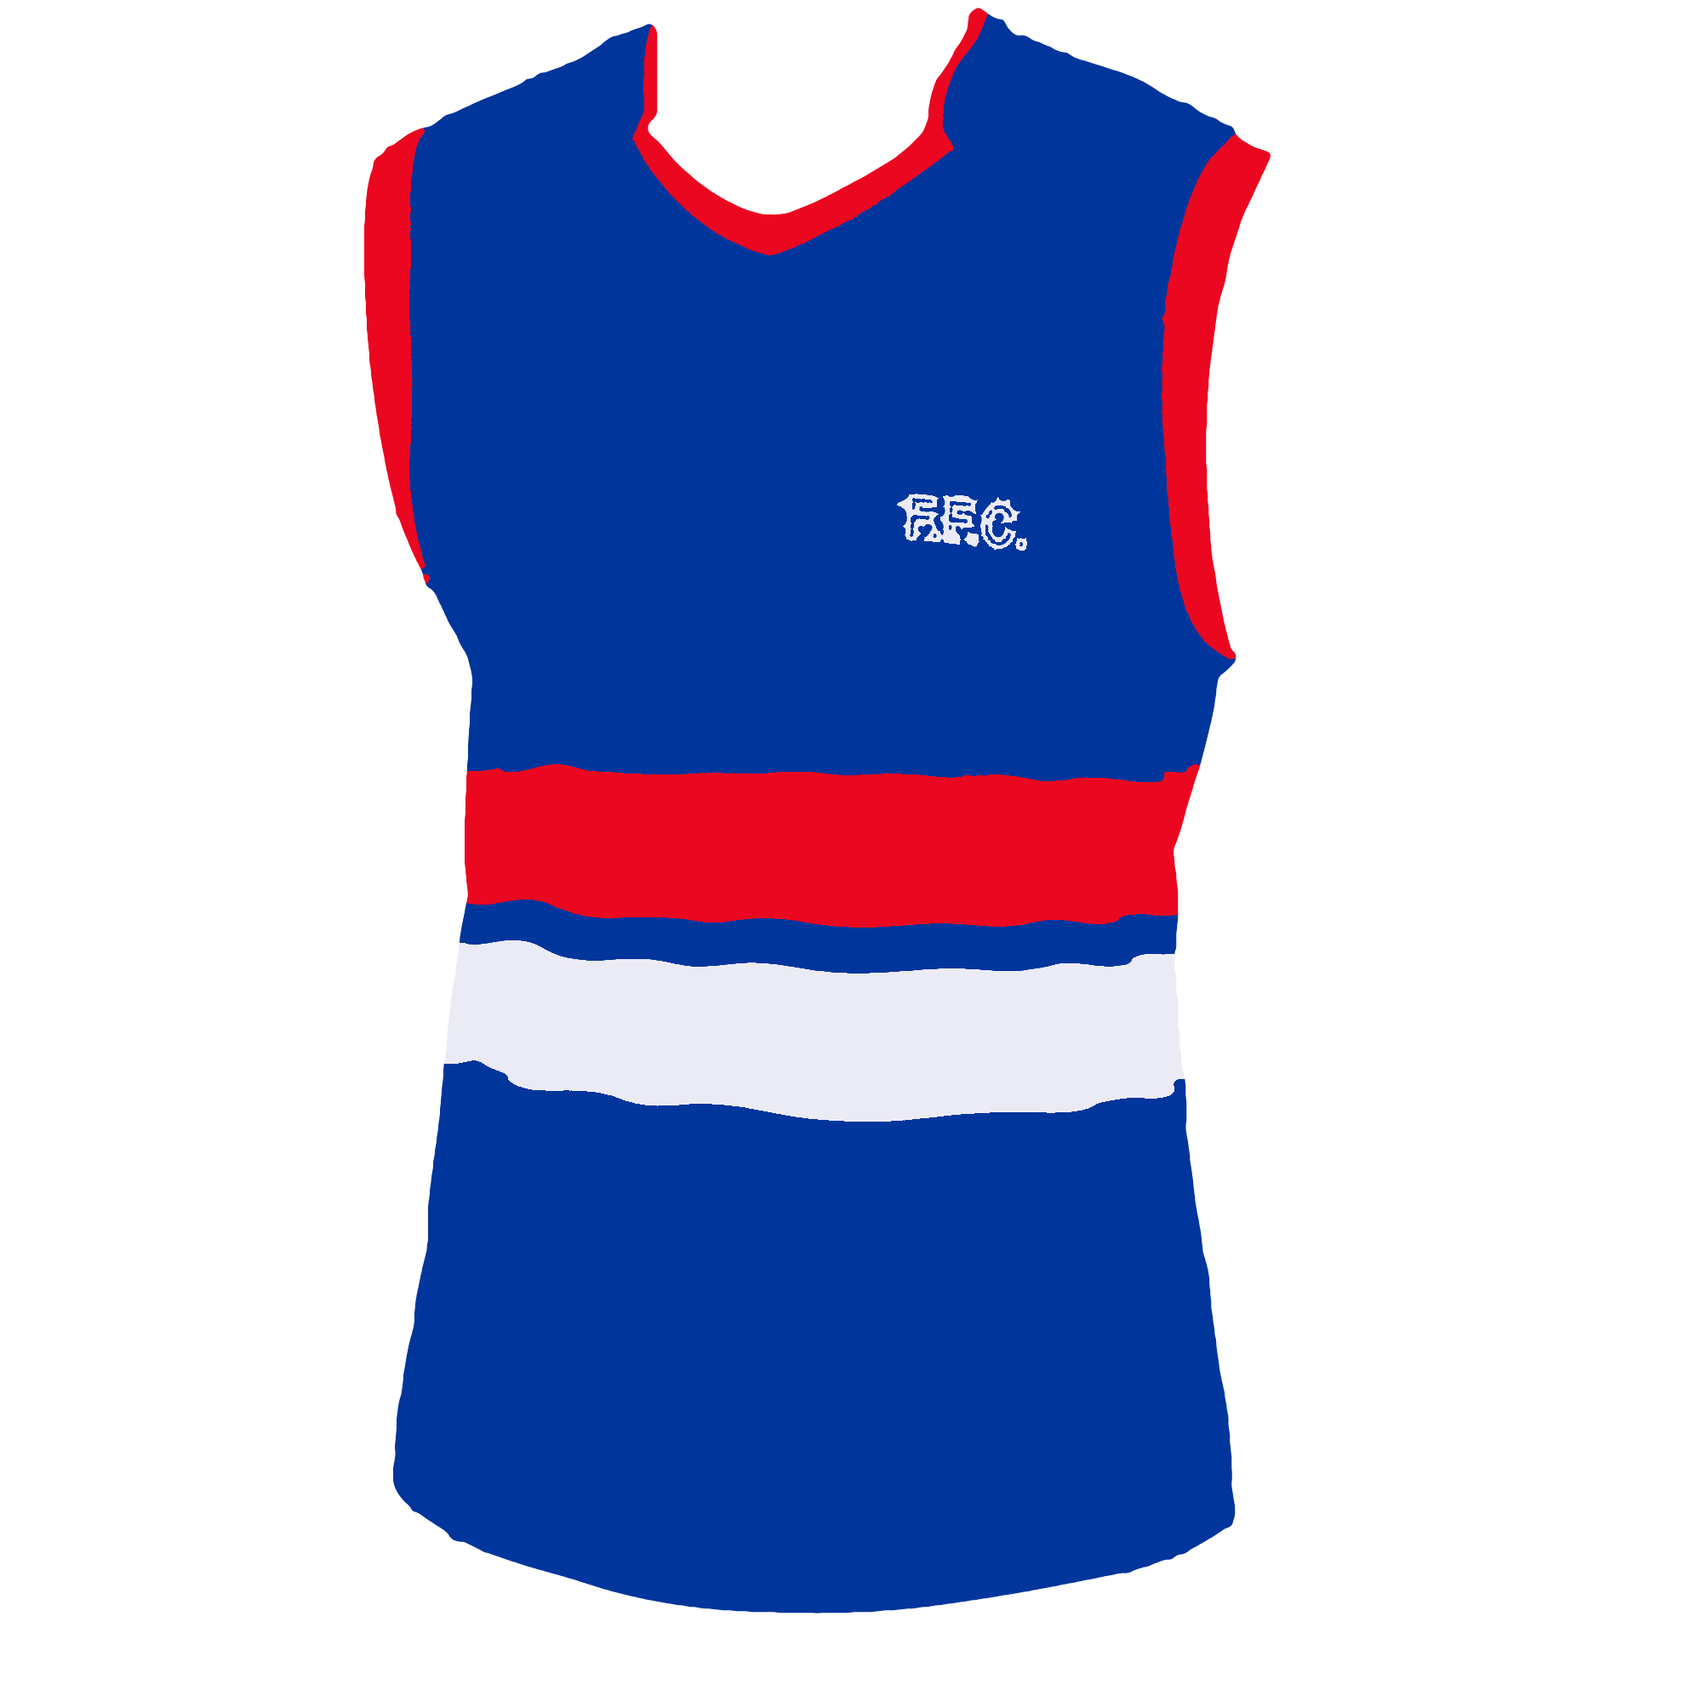
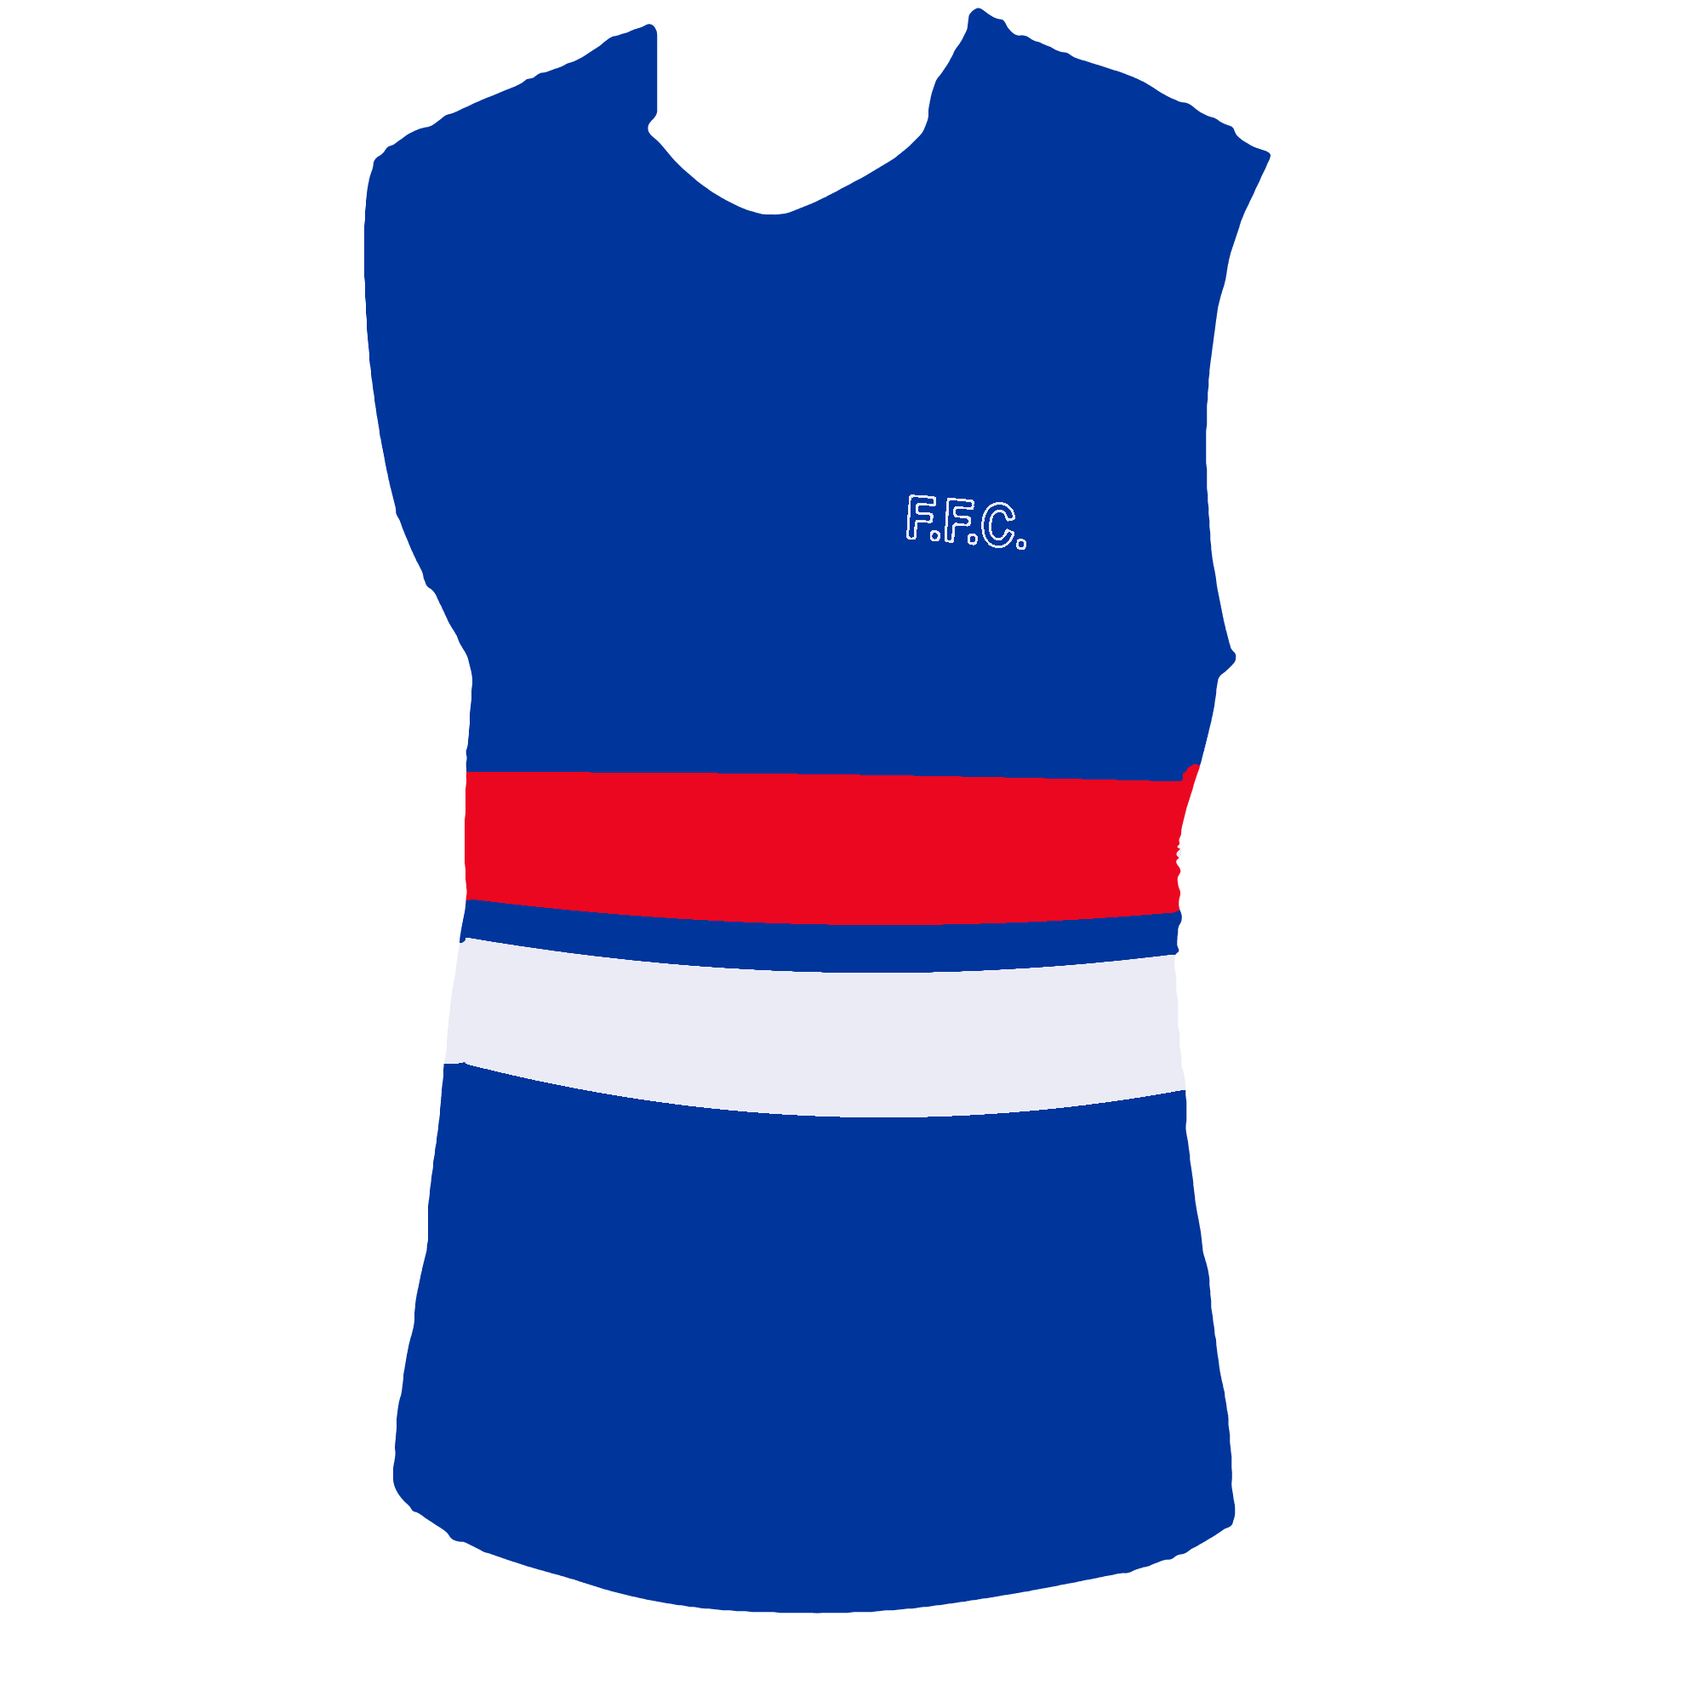
Guernseys SYD done, WBD designs and fixes (WBD cut held back)
Sydney: csv trims blanked (the design carries the binding). Western Bulldogs: hoops
redrawn as fitted bands, back from the director's straight-on photo
(wbd_back_norm.py), F.F.C. letters redrawn (wbd_design_fix.py). The WBD cut is not
committed: its neck loop sits 6 cm higher than every other club's and the collar
binding draws red patches over the back; that waits on the director.

diff --git a/tools/kits/guernsey3d/club_fixes/wbd_ref.py b/tools/kits/guernsey3d/club_fixes/wbd_ref.py
@@ -1,66 +1,79 @@
-# wbd_ref.py: Western Bulldogs. Photos: the AFL Store ghost-mannequin front and back (dl_wbd/s_0.jpg, s_1.jpg),
-# one camera (same top and hem rows), normalised with FIT=1 norm2.py WBD 405 405 samecam.
-# On both photos the mannequin is turned a touch, so through the right armhole you see the garment's pale inside
-# lining and, past it, the other panel's red binding. Neither is this panel's cloth: right of this panel's binding
-# goes to background. The edge: the lining's first pixel (r,g >150, b >200), read every 15 rows on the normalised
-# photo; above the lining it runs straight up to the panel's shoulder tip, below it down to the armpit; between the
-# points it is interpolated and smoothed (Gaussian, sigma 4 rows).
-# Front: the Mission sponsor sits on plain blue right above the club's F.F.C. letters, too close for trace.py's
-# padded box (its fill bridges up from the letters), so its area (x 958-1332, rows 330-577, ending 6 rows above
-# F.F.C.) is painted the body's blue (0,53,156, median of the plain blue at 900,1500) before the trace.
-# Back: the CoinSpot panel covers the hoops' middle (the end of the red hoop, the blue gap and most of the white).
-# Both outer edges stay visible on every column: the red hoop's top above the panel and the white hoop's bottom below
-# it. Each is read per column (x 560-1440) and fitted with a straight line (the back is turned a touch, so they slope
-# about 30 px across). Where the red ends and the white starts, as a share of that height, is read just outside the
-# panel on each side (x 596 and 1334) and interpolated across it (left 0.44/0.57, as on the front; the turned right
-# side reads less), over x 600-1330.
-# Run after norm2 (reads ref/WBD_<side>_photo.png, writes ref/WBD_<side>.png).
+# wbd_ref.py: Western Bulldogs.
+# Front: the AFL Store ghost-mannequin photo (dl_wbd/s_0.jpg), normalised with FIT=1 norm2.py WBD 405 405 samecam.
+# The mannequin is turned a touch, so through the right armhole you see the garment's pale inside lining and, past
+# it, the other panel's red binding. Neither is this panel's cloth: right of this panel's binding goes to
+# background. The edge: the lining's first pixel (r,g >150, b >200), read every 15 rows on the normalised photo;
+# above the lining it runs straight up to the panel's shoulder tip, below it down to the armpit; between the points
+# it is interpolated and smoothed (Gaussian, sigma 4 rows).
+# The Mission sponsor sits on plain blue right above the club's F.F.C. letters, too close for trace.py's padded box
+# (its fill bridges up from the letters), so its area (x 958-1332, rows 330-577, ending 6 rows above F.F.C.) is
+# painted the body's blue (0,53,156, median of the plain blue at 900,1500) before the trace.
+# Back: the director's straight-on photo, placed and recoloured by wbd_back_norm.py (no sponsor, no turn).
+# Both sides: the hoops are clean bands on the real guernsey, but their edges in the photos ripple with the cloth's
+# folds and a straight trace copies every ripple (director 2026-11-19: "sloppy line work"). So each hoop edge (red
+# top, red bottom, white top, white bottom) is read per column and fitted with one smooth curve across the width
+# (a parabola, refitted 4 times leaving out columns more than 2.5x the median miss, so shading at the side seams
+# does not bend the ends), and the hoops are repainted as flat bands between the fitted edges, with the body blue
+# 40 rows above and below, on every column between the first and last cloth column (only background joined to the
+# image border is put back, so the photo's near-white sheen inside the hoops is painted over).
+# Run after norm2 and wbd_back_norm.py (reads ref/WBD_<side>_photo.png, writes ref/WBD_<side>.png).
 import numpy as np
 from PIL import Image
-from scipy.ndimage import gaussian_filter1d
+from scipy.ndimage import gaussian_filter1d, median_filter, label
 for side in ('front', 'back'):
     a = np.asarray(Image.open(f'ref/WBD_{side}_photo.png').convert('RGB')).copy()
-    ai = a.astype(int)
-    r, g, b = ai[..., 0], ai[..., 1], ai[..., 2]
-    red = (r > 170) & (g < 110) & (b < 120)
-    bg = ai.min(-1) > 245
-    wh = (ai.min(-1) > 200) & ~bg
-    E = {'front': [(180, 1496), (255, 1461), (270, 1456), (285, 1451), (300, 1446), (315, 1443), (330, 1441),
-                   (345, 1436), (360, 1432), (375, 1430), (390, 1428), (405, 1426), (420, 1424), (435, 1422),
-                   (450, 1421), (465, 1420), (480, 1419), (525, 1418), (570, 1419), (585, 1420), (600, 1421),
-                   (615, 1422), (630, 1423), (645, 1424), (660, 1426), (675, 1429), (690, 1431), (735, 1440),
-                   (765, 1448)],
-         'back': [(195, 1530), (285, 1503), (300, 1499), (315, 1495), (330, 1491), (345, 1490), (360, 1486),
-                  (375, 1484), (390, 1482), (405, 1480), (420, 1478), (435, 1477), (450, 1476), (465, 1475),
-                  (480, 1474), (525, 1474), (540, 1473), (570, 1472), (585, 1471), (600, 1470), (615, 1468),
-                  (630, 1467), (645, 1465), (660, 1463), (675, 1461), (705, 1461), (735, 1460), (765, 1455)]}[side]
-    ys = np.arange(E[0][0], E[-1][0] + 1)
-    e = gaussian_filter1d(np.interp(ys, [p[0] for p in E], [p[1] for p in E]), 4, mode='nearest')
-    for y, x in zip(ys, np.rint(e).astype(int)):
-        a[y, x:] = 255
-    print(side, 'right armhole cut on rows', ys[0], '-', ys[-1])
     if side == 'front':
+        E = [(180, 1496), (255, 1461), (270, 1456), (285, 1451), (300, 1446), (315, 1443), (330, 1441),
+             (345, 1436), (360, 1432), (375, 1430), (390, 1428), (405, 1426), (420, 1424), (435, 1422),
+             (450, 1421), (465, 1420), (480, 1419), (525, 1418), (570, 1419), (585, 1420), (600, 1421),
+             (615, 1422), (630, 1423), (645, 1424), (660, 1426), (675, 1429), (690, 1431), (735, 1440),
+             (765, 1448)]
+        ys = np.arange(E[0][0], E[-1][0] + 1)
+        e = gaussian_filter1d(np.interp(ys, [p[0] for p in E], [p[1] for p in E]), 4, mode='nearest')
+        for y, x in zip(ys, np.rint(e).astype(int)):
+            a[y, x:] = 255
+        print(side, 'right armhole cut on rows', ys[0], '-', ys[-1])
         a[330:578, 958:1333] = (0, 53, 156)
-    else:
-        xs, ts, ws = [], [], []
-        for x in range(560, 1441, 4):
-            rr = np.nonzero(red[850:960, x])[0]
-            ww = np.nonzero(wh[1240:1330, x])[0]
-            if len(rr) and len(ww) and not bg[1240 + ww.max() + 3, x]:
-                xs.append(x); ts.append(850 + rr.min()); ws.append(1240 + ww.max() + 1)
-        kt, ct = np.polyfit(xs, ts, 1); kw, cw = np.polyfit(xs, ws, 1)
-        def frac(x):
-            t = kt * x + ct; w = kw * x + cw
-            col = red[round(t):round(w), x]; re = round(t) + np.nonzero(col)[0].max() + 1
-            ws = re + np.nonzero(wh[re:round(w), x])[0].min()
-            return (re - t) / (w - t), (ws - t) / (w - t)
-        (fl1, fl2), (fr1, fr2) = frac(596), frac(1334)
-        for x in range(600, 1331):
-            t = kt * x + ct; w = kw * x + cw; u = (x - 596) / (1334 - 596)
-            f1 = fl1 + (fr1 - fl1) * u; f2 = fl2 + (fr2 - fl2) * u
-            r1, w0 = round(t + f1 * (w - t)), round(t + f2 * (w - t))
-            a[round(t):r1, x] = (235, 7, 32); a[r1:w0, x] = (0, 53, 156); a[w0:round(w), x] = (235, 235, 246)
-        print('band shares left %.3f/%.3f right %.3f/%.3f' % (fl1, fl2, fr1, fr2))
-        print('back hoops: red top %.0f-%.0f, white bottom %.0f-%.0f (x 600-1330), %d columns read'
-              % (kt * 600 + ct, kt * 1340 + ct, kw * 600 + cw, kw * 1340 + cw, len(xs)))
+        # the red collar and armhole binding (all red above row 860; the red hoop starts at ~900) go blue: the csv's
+        # collar and armhole trims (#E40A23) draw the binding on the mesh's own edges, front and back alike. Left in
+        # the design, the binding is the cloth's outer edge, so fillcell's nearest-colour fill spread it over every
+        # part of the mesh past the photo's outline (red side panels, ragged shoulders, a red wedge on the back).
+        ai = a.astype(int); top = np.zeros(a.shape[:2], bool); top[:860] = True
+        binding = top & (ai[..., 0] > 110) & (ai[..., 0] > 2 * ai[..., 1]) & (ai[..., 0] > 1.5 * ai[..., 2])
+        a[binding] = (0, 53, 156)
+        print(side, 'binding px painted blue', int(binding.sum()))
+    ai = a.astype(int); r, g, b = ai[..., 0], ai[..., 1], ai[..., 2]
+    red = (r > 170) & (g < 110) & (b < 120); bg = ai.min(-1) > 245; wh = (ai.min(-1) > 200) & ~bg
+    cx, E4 = [], []
+    for x in range(0, 2000):
+        if bg[820:1350, x].mean() > 0.5:
+            continue
+        rr = np.nonzero(red[820:1350, x])[0]
+        if not len(rr):
+            continue
+        t1 = 820 + rr.min(); r2 = 820 + rr.max() + 1
+        ww = np.nonzero(wh[r2:1350, x])[0]
+        if not len(ww):
+            continue
+        w1 = r2 + ww.min(); w2 = r2 + ww.max() + 1
+        cx.append(x); E4.append((t1, r2, w1, w2))
+    cx = np.array(cx); E4 = np.array(E4, float)
+    def fit(y):
+        keep = np.ones(len(cx), bool)
+        for _ in range(4):
+            c = np.polyfit(cx[keep], y[keep], 2); res = y - np.polyval(c, cx)
+            keep = np.abs(res) < max(3.0, 2.5 * np.median(np.abs(res[keep])))
+        return np.polyval(c, cx), keep.mean()
+    fits = [fit(E4[:, k]) for k in range(4)]
+    print(side, 'edge fit inliers', ' '.join('%.2f' % f[1] for f in fits))
+    E4 = np.stack([f[0] for f in fits], 1)
+    BL, RD, WT = (0, 53, 156), (235, 7, 32), (235, 235, 246)
+    lab, _ = label(bg); outside = np.isin(lab, np.unique(np.r_[lab[0], lab[-1], lab[:, 0], lab[:, -1]])) & bg
+    xs_all = np.arange(cx.min(), cx.max() + 1)
+    E4 = np.stack([np.interp(xs_all, cx, E4[:, k]) for k in range(4)], 1); cx = xs_all
+    for x, (t1, r2, w1, w2) in zip(cx, np.rint(E4).astype(int)):
+        keep = outside[:, x].copy()
+        a[t1 - 40:t1, x] = BL; a[t1:r2, x] = RD; a[r2:w1, x] = BL; a[w1:w2, x] = WT; a[w2:w2 + 40, x] = BL
+        a[keep, x] = 255
+    print(side, 'hoops repainted on', len(cx), 'columns')
     Image.fromarray(a).save(f'ref/WBD_{side}.png')

diff --git a/tools/kits/guernsey3d/club_fixes/wbd_back_norm.py b/tools/kits/guernsey3d/club_fixes/wbd_back_norm.py
@@ -1,0 +1,72 @@
+# wbd_back_norm.py: Western Bulldogs back, from the director's photo (2026-11-19, "perhaps a better back view / beware
+# the creases but its cleaner than what youre working with"; dl_wbd/director_back.png, 1000x1000, straight on, no sponsor).
+# It is a different camera from the AFL Store front, so norm2's chest rule would put its hem 5 cm below the front's
+# (and push the front off the frame). The AFL Store front and back come from one camera and show the back's top,
+# armpit and hem rows (frame rows 5, 766.5, 1901 from FIT=1 norm2.py WBD 405 405 samecam); this photo is placed on
+# those three rows (top-armpit and armpit-hem each stretched evenly), and across to the chest width (905 px at the
+# armpit, as norm2). Writes ref/WBD_back_photo.png (wbd_ref.py then makes ref/WBD_back.png).
+# Raw rows read on a pixel grid: top 81 (back collar), armpit 362 (side seam turns straight down), hem 950 (centre).
+import numpy as np
+from PIL import Image
+exec(open('C:/kt/guernsey3d_work/measure.py').read().split('for c in sys.argv')[0])
+SRC = 'dl_wbd/director_back.png'
+m = cloth(SRC)
+top, arm, hem = 81, 362, 950
+F_TOP, F_ARM, F_HEM = 5.0, 189.0 + 0.25 * 2310.0, 1901.0
+w = np.median([np.ptp(np.nonzero(m[r])[0]) for r in range(arm, arm + 8)])
+cxa = np.median([(lambda z: (z.min() + z.max()) / 2)(np.nonzero(m[r])[0]) for r in range(arm, arm + 8)])
+s = 905.0 / w
+im = np.asarray(Image.open(SRC).convert('RGB')).astype(float)
+fy = np.arange(2000, dtype=float)
+ry = np.interp(fy, [F_TOP, F_ARM, F_HEM], [top, arm, hem], left=-1e9, right=1e9)   # frame row -> photo row
+rx = (np.arange(2000) - 1000.0) / s + cxa
+from scipy.ndimage import map_coordinates
+Y, X = np.meshgrid(ry, rx, indexing='ij')
+out = np.stack([map_coordinates(im[..., k], [Y, X], order=3, cval=255.0) for k in range(3)], -1)
+BL, RD, WT = np.array((0, 53, 156)), np.array((235, 7, 32)), np.array((235, 235, 246))
+def snap(a, border=True):
+    # this photo's colours are lighter and warmer than the AFL Store front's; each cloth pixel takes the front's colour
+    # for its kind: red (r>170, g and b <130), white (all >200 and within 30 of each other: the hoop, the letters),
+    # else blue (crease highlights such as 120,169,210 stay blue). Background (all >252) stays white.
+    a = a.copy(); mn, mx = a.min(-1), a.max(-1)
+    from scipy.ndimage import label
+    bg = mn > 252   # background: near-white joined to the image border (bright pixels inside the letters are cloth)
+    if border:
+        lab, _ = label(bg); bg &= np.isin(lab, np.unique(np.r_[lab[0], lab[-1], lab[:, 0], lab[:, -1]])) & (lab > 0)
+    else:
+        bg[:] = False
+    red = (a[..., 0] > 170) & (a[..., 1] < 130) & (a[..., 2] < 130); wh = (mn > 200) & (mx - mn < 30) & ~bg
+    from scipy.ndimage import binary_dilation
+    # pale anti-aliased outline pixels belong to the background: the upscale (2.1x across, 2.7x down) spreads the
+    # photo's soft edge over ~6 px, so 8 px; not on the rows where the white hoop itself meets the side seam
+    edge = binary_dilation(bg, iterations=8) & (mn > 200)
+    edge[((mn > 200) & (mx - mn < 30) & ~bg).sum(1) > 300] = False
+    a[~bg] = BL; a[red & ~bg] = RD; a[wh] = WT; a[bg | edge] = 255
+    return a
+Image.fromarray(np.clip(np.rint(out), 0, 255).astype(np.uint8)).save('ref/WBD_back_placed.png')   # the board's photo panel
+out = snap(out)
+# white patches left on the outline (the soft edge at the stretched shoulders) are not cloth details: any white patch
+# under 2000 px (the hoop is ~120,000) goes to background if it touches it, else blue; the letters are pasted after.
+from scipy.ndimage import label, binary_dilation
+isw = (out == WT).all(-1); isb = (out == 255).all(-1); lab, n = label(isw)
+sz = np.bincount(lab.ravel()); small = (sz < 2000); small[0] = False
+for i in np.nonzero(small)[0]:
+    blob = lab == i
+    out[blob] = 255 if (binary_dilation(blob, iterations=2) & isb).any() else BL
+print('outline white patches cleared:', int(small.sum()))
+# F.F.C.: the top-armpit stretch (2.71 a px down, 2.11 across) would make the letters 1.28x too tall, so their area
+# (raw x 472-542, rows 113-137) goes blue and the letters are pasted at the chest scale both ways, on the same centre.
+x0, y0, x1, y1 = 466, 109, 548, 141
+fx0, fx1 = (x0 - cxa) * s + 1000, (x1 - cxa) * s + 1000
+fy0, fy1 = np.interp([y0, y1], [top, arm, hem], [F_TOP, F_ARM, F_HEM])
+out[int(fy0):int(np.ceil(fy1)) + 1, int(fx0):int(np.ceil(fx1)) + 1] = BL
+L = Image.open(SRC).convert('RGB').crop((x0, y0, x1, y1))
+L = np.asarray(L.resize((round((x1 - x0) * s), round((y1 - y0) * s)), Image.LANCZOS)).astype(float)
+L = snap(L, border=False); h, wd = L.shape[:2]
+cy, cx0 = (fy0 + fy1) / 2, (fx0 + fx1) / 2
+py, px = round(cy - h / 2), round(cx0 - wd / 2)
+out[py:py + h, px:px + wd] = L
+print('F.F.C. pasted at rows %d-%d, x %d-%d' % (py, py + h, px, px + wd))
+Image.fromarray(np.clip(np.rint(out), 0, 255).astype(np.uint8)).save('ref/WBD_back_photo.png')
+print('back placed: chest %.0f px -> 905 (x %.3f); top-armpit x %.3f, armpit-hem x %.3f' %
+      (w, s, (F_ARM - F_TOP) / (arm - top), (F_HEM - F_ARM) / (hem - top if False else hem - arm)))

diff --git a/tools/kits/guernsey3d/club_fixes/wbd_design_fix.py b/tools/kits/guernsey3d/club_fixes/wbd_design_fix.py
@@ -1,0 +1,18 @@
+# wbd_design_fix.py: Western Bulldogs front, run after trace.py (it edits design_WBD_front.png in place).
+# The front's F.F.C. is printed as thin white outlines (about 6 px in the frame) on the blue; trace.py fills and spikes
+# strokes that thin (director 2026-11-19 on the hoops: "sloppy line work"). The design is in the photo's frame, so the
+# letters' box (frame x 1045-1220, rows 572-655, blue all round its border) is redrawn straight from
+# ref/WBD_front_photo.png: white (235,235,246) where the photo's darkest channel is above 128 after a 1 px blur, blue
+# (0,53,156) elsewhere; white specks under 10 px dropped.
+import numpy as np
+from PIL import Image
+from scipy.ndimage import gaussian_filter, label
+x0, y0, x1, y1 = 1045, 572, 1221, 656
+p = np.asarray(Image.open('ref/WBD_front_photo.png').convert('RGB')).astype(float)[y0:y1, x0:x1]
+m = gaussian_filter(p.min(-1), 1.0) > 128
+lab, n = label(m); sz = np.bincount(lab.ravel()); m &= (sz >= 10)[lab]   # specks under 10 px are cloth noise
+d = np.asarray(Image.open('design_WBD_front.png').convert('RGBA')).copy()
+box = d[y0:y1, x0:x1]
+box[..., :3] = (0, 53, 156); box[m, :3] = (235, 235, 246)
+Image.fromarray(d).save('design_WBD_front.png')
+print('F.F.C. redrawn: %d white px' % m.sum())
